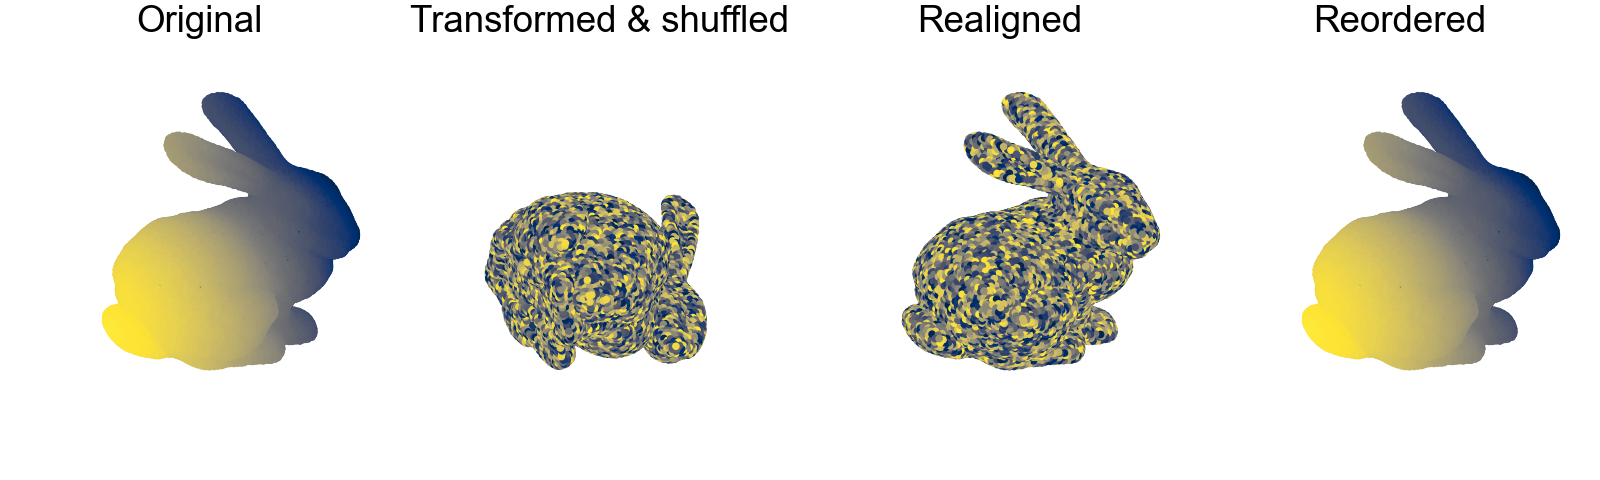
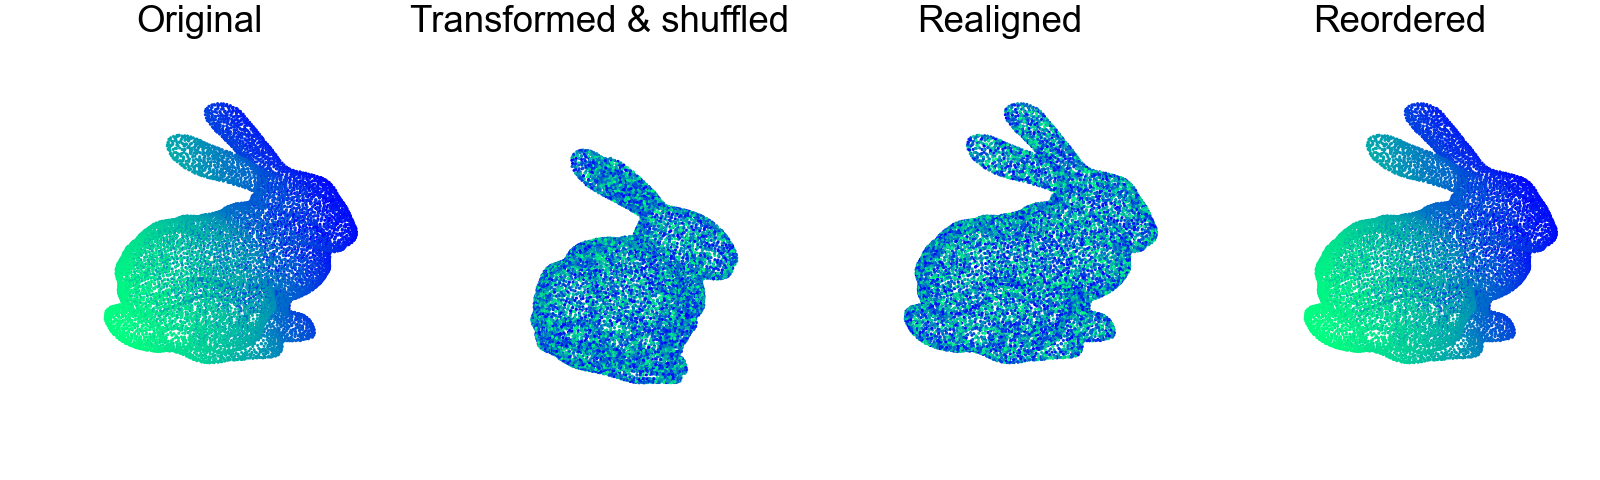
Improved transform readability

diff --git a/oarp/pcl.py b/oarp/pcl.py
@@ -5,16 +5,20 @@ from sklearn.decomposition import PCA
 import copy
 from typing import Union
 
+
 def apply_transform(verts, T):
 	"""Apply 4x4 transformation matrix to verts"""
 	v = np.pad(verts, ((0, 0), (0, 1)), constant_values=1)
 	return (v @ T.T)[..., :3]
 
+
 def in_bbox(V, bbox):
 	"""Returns a boolean array of shape V = (..., 3), corresponding to whether each point in V
 	is within the (3, 2) bbox """
-	x,y,z = V[..., 0], V[..., 1], V[..., 2]
-	return (bbox[0,0]<=x) & (x<bbox[0,1]) & (bbox[1,0]<=y) & (y<bbox[1,1]) & (bbox[2,0]<=z) & (z<bbox[2,1])
+	x, y, z = V[..., 0], V[..., 1], V[..., 2]
+	return (bbox[0, 0] <= x) & (x < bbox[0, 1]) & (bbox[1, 0] <= y) & (y < bbox[1, 1]) & (bbox[2, 0] <= z) & (
+				z < bbox[2, 1])
+
 
 class Pointcloud():
 	def __init__(self, verts: np.ndarray):
@@ -44,17 +48,42 @@ class Pointcloud():
 
 	@property
 	def verts_padded(self):
-		return np.pad(self.verts, ((0,0),(0,1)), constant_values=1)
+		return np.pad(self.verts, ((0, 0), (0, 1)), constant_values=1)
 
-	def transform(self, T):
+	def transform(self, T: np.ndarray):
+		"""Apply rigid transformation T to current pose.
+		:param T: 4x4 np.ndarray, depciting [R|t], where R is a translation matrix, and t a translation"""
+
+		if not np.isclose(np.linalg.det(T[:3, :3]), 1, atol=1e-5):
+			raise ValueError("The top left 3x3 matrix of T must represent purely a rotation matrix.")
+
 		self.pose = T @ self.pose
+
+	def rotate_about_axis(self, angle: float, axis='x'):
+		"""Apply rigid rotation to current pose.
+		:param angle: Rotation in radians
+		:param axis: Letter corresponding to axis of rotation, x, y or z"""
+		T = np.eye(4)
+		rot_2d = np.array([[np.cos(angle), -np.sin(angle)], [np.sin(angle), np.cos(angle)]])
+		idxs = [[1, 2], [0, 2], [0, 1]]['xyz'.index(axis)]
+		T[np.ix_(idxs, idxs)] = rot_2d
+		self.transform(T)
+
+	def shift_in(self, shift: float, axis='x'):
+		"""Apply shift to current pose
+		:param shift: Float to shift
+		:param axis: Axis to shift in, x, y, z
+		"""
+		T = np.eye(4)
+		T['xyz'.index(axis), -1] = shift
+		self.transform(T)
 
 	@staticmethod
 	def load_from_obj(src):
 		loader = OBJLoader()
 
 		verts, faces = loader.load(src)
-		pcl = Pointcloud(verts = np.array(verts))
+		pcl = Pointcloud(verts=np.array(verts))
 		return pcl
 
 	def randomise(self):
@@ -84,7 +113,7 @@ class Pointcloud():
 
 		return pca
 
-	def partition_verts(self, splits:Union[int,tuple]=2):
+	def partition_verts(self, splits: Union[int, tuple] = 2):
 		"""Return a list of verts lists, each made by splitting the pointcloud up in 3 dimensions.
 		if splits is int, splits that many times in each dimension
 		if splits is tuple, split by splits[0] in x, splits[1] in y, etc
@@ -99,15 +128,15 @@ class Pointcloud():
 
 		# calculate partition lines in each dimension
 		bbox = self.bbox
-		xp = np.linspace(bbox[0,0], bbox[0,1]+1e-5, splits[0] + 2)
-		yp = np.linspace(bbox[1,0], bbox[1,1]+1e-5, splits[1] + 2)
-		zp = np.linspace(bbox[2,0], bbox[2,1]+1e-5, splits[2] + 2)
+		xp = np.linspace(bbox[0, 0], bbox[0, 1] + 1e-5, splits[0] + 2)
+		yp = np.linspace(bbox[1, 0], bbox[1, 1] + 1e-5, splits[1] + 2)
+		zp = np.linspace(bbox[2, 0], bbox[2, 1] + 1e-5, splits[2] + 2)
 
 		partition, idxs = [], []
 		for xi in range(splits[0] + 1):
 			for yi in range(splits[1] + 1):
 				for zi in range(splits[2] + 1):
-					p_bbox = np.array([xp[xi:xi+2], yp[yi:yi+2], zp[zi:zi+2]])
+					p_bbox = np.array([xp[xi:xi + 2], yp[yi:yi + 2], zp[zi:zi + 2]])
 					in_bounds = in_bbox(self.verts, p_bbox)
 					partition.append(self.verts[in_bounds])
 					idxs.append(np.argwhere(in_bounds).ravel())

diff --git a/examples/rigid_transforms.py b/examples/rigid_transforms.py
@@ -10,6 +10,8 @@ import numpy as np
 from time import perf_counter
 import os
 
+from matplotlib import pyplot as plt
+
 # make sure working from main dir
 if os.getcwd().endswith('examples'):
 	os.chdir('..')
@@ -21,26 +23,21 @@ if __name__ == "__main__":
 	pcl_1 = Pointcloud.load_from_obj(obj_src)
 	print(f"LOADED MESH: {obj_src} [{pcl_1.n_verts} verts]")
 
-	# Set up ORDER of pointcloud 1 to be by y, then by x, then z for clear visualisation
+	# Set up ORDER of pointcloud 1 to be x, then z, then y for clear visualisation
 	x, y, z = pcl_1.verts.T
-
-	order = pcl_1.order[np.lexsort((z, y, x))]
+	order = pcl_1.order[np.lexsort((y, z, x))]
 	pcl_1.order = order
 
-	# Generate second pointcloud, with transformations applied, and indices reordered
+	# Copy pointcloud
 	pcl_2 = pcl_1.copy()
 
-	# apply transform
-	T = np.array([	[0, -1, 0, 0.],
-					[1, 0, 0, 0.],
-					[0, 0, 1, -1.],
-					[0, 0, 0, 1]	])
+	# apply desired transforms - rotate, shift, and reorder
+	pcl_2.rotate_about_axis(0.5, 'z')
+	pcl_2.rotate_about_axis(0.5, 'y')
+	pcl_2.shift_in(-0.6, 'y')
+	pcl_2.randomise()
 
-	pcl_2.transform(T)
-	pcl_2.randomise()  # add in to test reordering
-
-	d = 0.5
-	fig, axs = setup_axes(ncols=4, axis_opt='off', bounds=pcl_1.bbox)
+	fig, axs = setup_axes(ncols=4, axis_opt='off', bounds=pcl_1.bbox, elev=25, azim=60)
 
 	plot_pointcloud(axs[0], pcl_1)
 	plot_pointcloud(axs[1], pcl_2)
@@ -48,14 +45,14 @@ if __name__ == "__main__":
 	# First, perform ICP to align pcl_2 with pcl_1
 
 	start_time = perf_counter()
-	res = ICP(pcl_2, pcl_1, max_iter=10, nsample=100, k=75)
+	res = ICP(pcl_2, pcl_1, max_iter=20, nsample=100, k=75)
 	print('ICP... ', f"Time: {(perf_counter() - start_time) * 1000:.2f}ms | Num its: {res['nits']} | Error : {np.format_float_scientific(res['err'], 3)}")
 
 	plot_pointcloud(axs[2], pcl_2)
 
 	# then, perform reordering to align vertex order
 	start_time = perf_counter()
-	reres = reorder(pcl_2, pcl_1, neighbours=10)
+	reres = reorder(pcl_2, pcl_1, neighbours=20)
 	print(f"Reorder... Time: {(perf_counter() - start_time) * 1000:.2f}ms")
 
 	# Prove that all verts and vertex order are identical

diff --git a/examples/gaussian_pointclouds.py b/examples/gaussian_pointclouds.py
@@ -14,12 +14,15 @@ if os.getcwd().endswith('examples'):
 np.set_printoptions(precision=3, suppress=True)
 
 N = 1000  # Number of verts
+pcl_size = 5.  # size of points in scatter
 
 if __name__ == "__main__":
 
 	# Gaussian pointclouds, with pcl 1's major axis in x, pcl 2's in y
 
+	np.random.seed(0)
 	verts_1 = np.random.randn(N, 3)
+	np.random.seed(1)
 	verts_2 = np.random.randn(N, 3)
 	verts_1[..., [1,2]] *= 0.5
 	verts_2[..., [0,2]] *= 0.5
@@ -34,18 +37,18 @@ if __name__ == "__main__":
 
 	fig, axs = setup_axes(ncols=4, nrows=1, axis_opt='off', bounds=(-2., 2.))
 
-	plot_pointcloud(axs[0], pcl_1),	plot_pointcloud(axs[1], pcl_2)
+	plot_pointcloud(axs[0], pcl_1, s=pcl_size),	plot_pointcloud(axs[1], pcl_2, s=pcl_size)
 
 	# Apply ICP and replot
 	res = ICP(pcl_2, pcl_1, max_iter=10, nsample=100, k=75)
-	plot_pointcloud(axs[2], pcl_2)
+	plot_pointcloud(axs[2], pcl_2, s=pcl_size)
 
 	# then, perform reordering to align vertex order
 	# Note: Here, neighbour selection is turned off. This comes at a cost to performance,
 	# but might be necessary for random pointclouds, as limiting to nearest neighbours might remove feasible solutions
 	reres = reorder(pcl_2, pcl_1, neighbours=None)
 
-	plot_pointcloud(axs[3], pcl_2)
+	plot_pointcloud(axs[3], pcl_2, s=pcl_size)
 
 	titles = ['Pountcloud A', 'Pointcloud B', 'B aligned to A', 'B reordered to A']
 	[ax.set_title(t) for ax, t in zip(axs, titles)]

diff --git a/oarp/vis_utils.py b/oarp/vis_utils.py
@@ -7,7 +7,7 @@ from matplotlib.patches import ConnectionPatch
 
 title_font = {'family': 'serif', 'serif': ['Arial'], 'weight': 'bold', 'size': 22}
 mpl.rc('font', **title_font)
-default_cmap = 'cividis'
+default_cmap = 'winter'  # good alternative: 'cividis'
 
 
 def setup_axes(ncols=1, nrows=1, axis_opt='off', bounds: Union[float, int, tuple, np.ndarray] = 1,
@@ -60,13 +60,14 @@ def setup_axes(ncols=1, nrows=1, axis_opt='off', bounds: Union[float, int, tuple
 
 	return fig, axs
 
-def plot_pointcloud(ax, pcl, alpha=1., c=None, cmap=default_cmap):
+
+def plot_pointcloud(ax, pcl, alpha=1., c=None, cmap=default_cmap, s=1.5):
 	"""Note - 'z' axis on graph maps the y coordinate here, and 'y' maps the z coordinate, to be consistent
 	with the .obj file format"""
 	if c is None:
 		c = np.arange(pcl.n_verts)  # by default, colour based on order
 
-	ax.scatter(*pcl.verts[:, [0, 2, 1]].T, c=c, alpha=alpha, cmap=cmap)  # plot x, z, y
+	ax.scatter(*pcl.verts[:, [0, 2, 1]].T, c=c, alpha=alpha, cmap=cmap, s=s)  # plot x, z, y
 
 
 def draw_arrow(ax1, ax2, xy1=(0, 0), xy2=(0, 0), text=None):

diff --git a/README.md b/README.md
@@ -14,3 +14,14 @@ To run the either of the examples demonstrated in the images above, run either:
 
 - Transformed pointcloud O&A: `python examples/rigid_pointclouds.py`
 - Dissimilar pointcloud O&A: `python examples/gaussian_pointclouds.py`
+
+# Implementation
+
+All implementations are in numpy and scipy.
+
+Alignment is completed via Principal Component Analysis (PCA) and Iterative Closest Point (ICP). 
+
+PCA provides an initial estimate for the rigid transformation between two pointclouds (highly accurate if these are from the same source), and ICP iteratively refines this estimate. 
+
+
+## Acknowledgements
